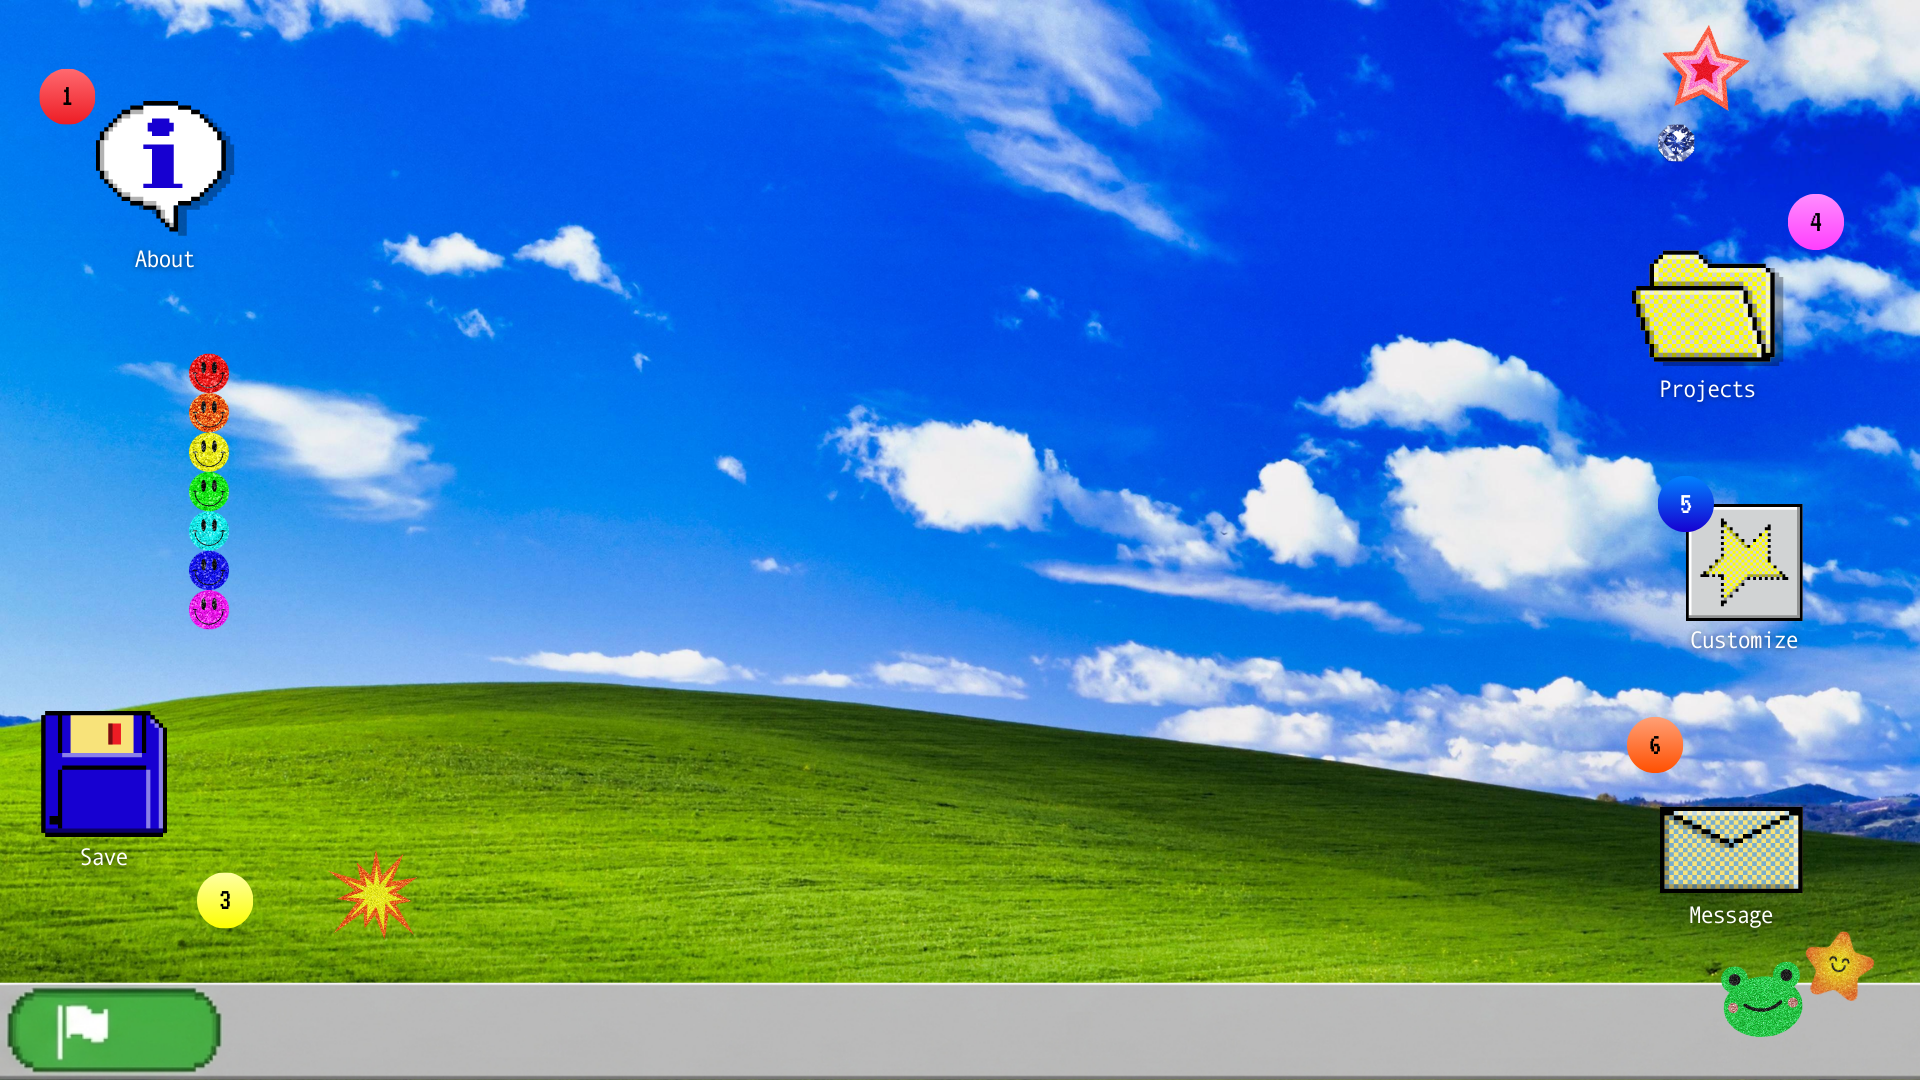
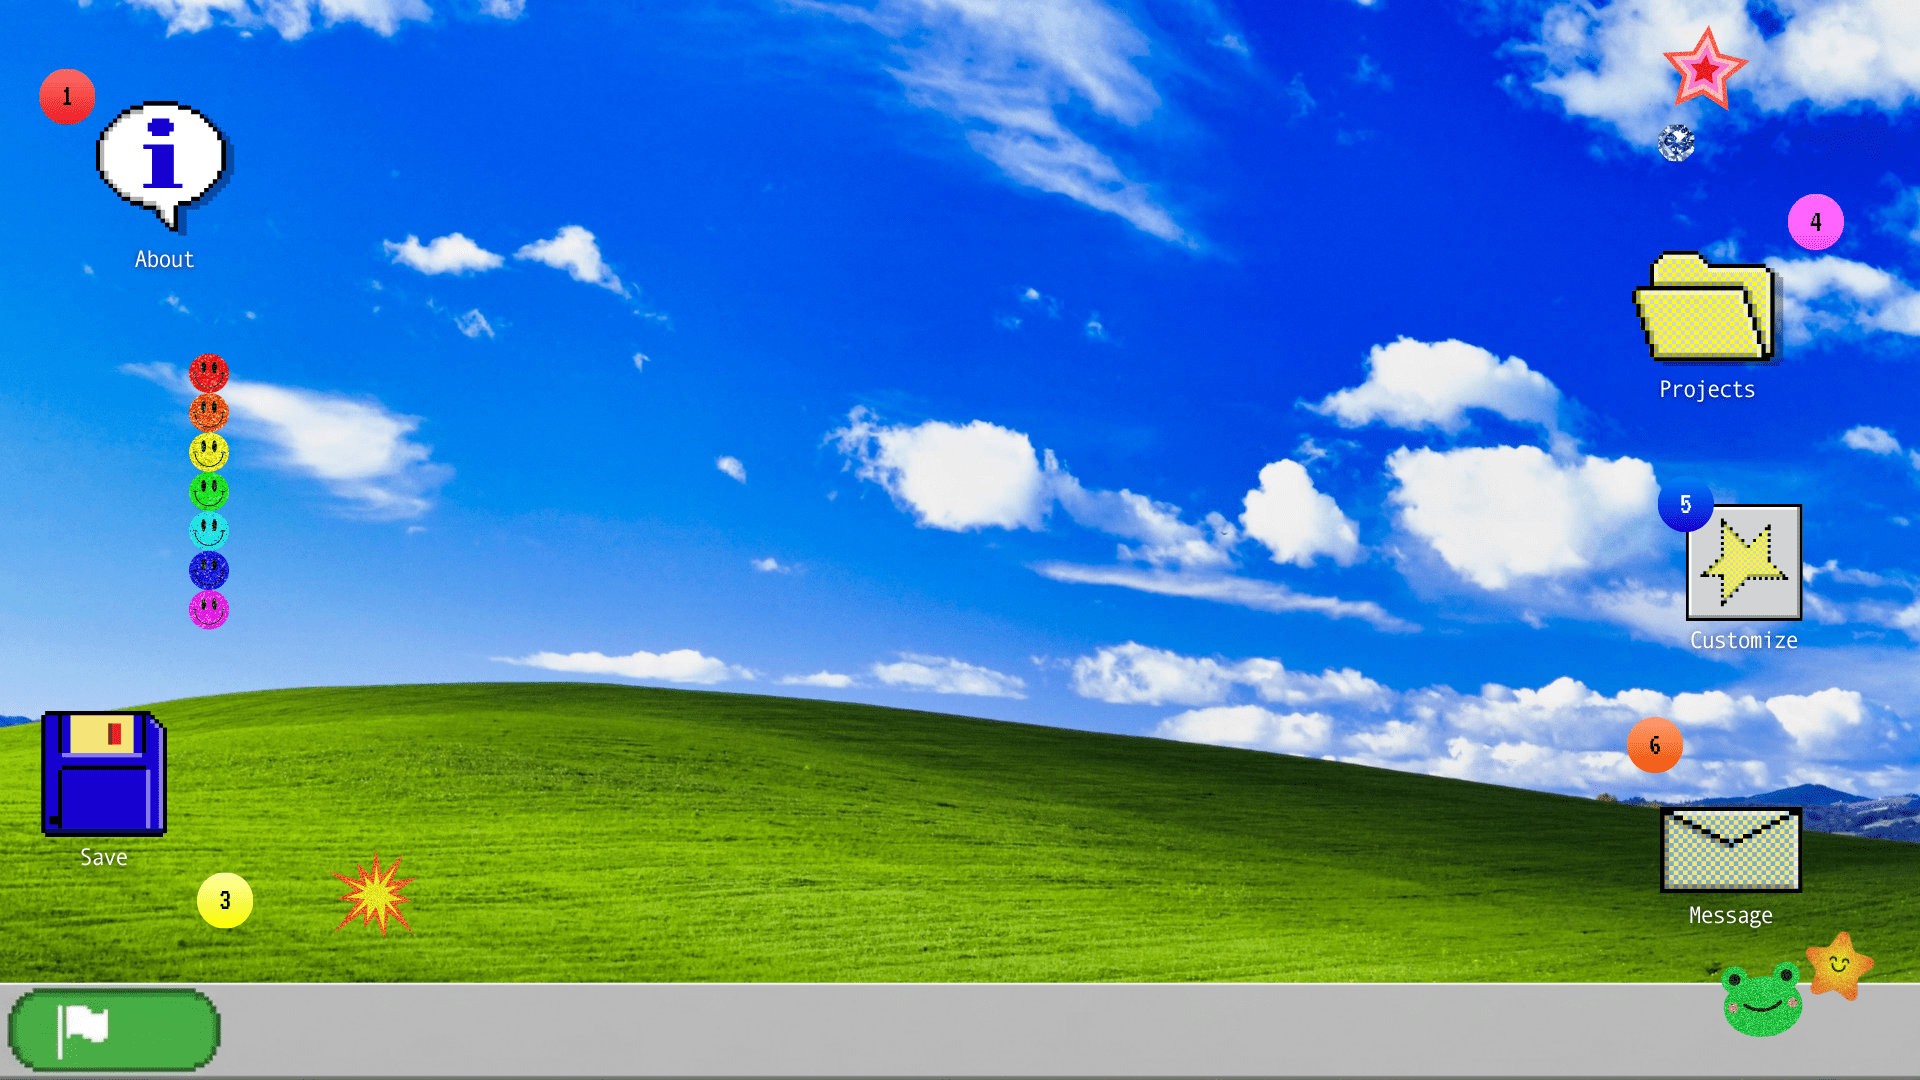
Compress images and prune 24 unused files (29 MB → 7.9 MB)
Delete 24 unused files: 13 dev screenshots, 7 unreferenced .webp
background variants, and 4 misc images (map.png, desktop-feed.png,
sidebar-screenshot.png, sidebar-background-image-screenshot.png).

Compress all remaining PNGs with pngquant (65-85% quality) and JPEGs
with jpegoptim (max 80% quality). Major savings on theme backgrounds:
skater-bg 5.4→1.3 MB, grunge-bg 4.3→1.1 MB, bubblegum-bg 3.9→851 KB,
mspaint-bg 3.5→786 KB, kawaii-bg 3.1→962 KB.

Fix broken logo.png reference in self-hosting guide (only logo.svg
exists).

diff --git a/docs/guides/self-hosting.md b/docs/guides/self-hosting.md
@@ -115,7 +115,7 @@ This lets you distribute Ditto as a branded Android app for your community.
 
 Beyond themes, you can customize:
 
-- **Logo** -- Replace `public/logo.svg` and `public/logo.png`
+- **Logo** -- Replace `public/logo.svg`
 - **App name** -- Update in `index.html` and `public/manifest.webmanifest`
 - **Default relays** -- Set in `ditto.json`
 - **Upload servers** -- Set your own Blossom servers in `ditto.json`
